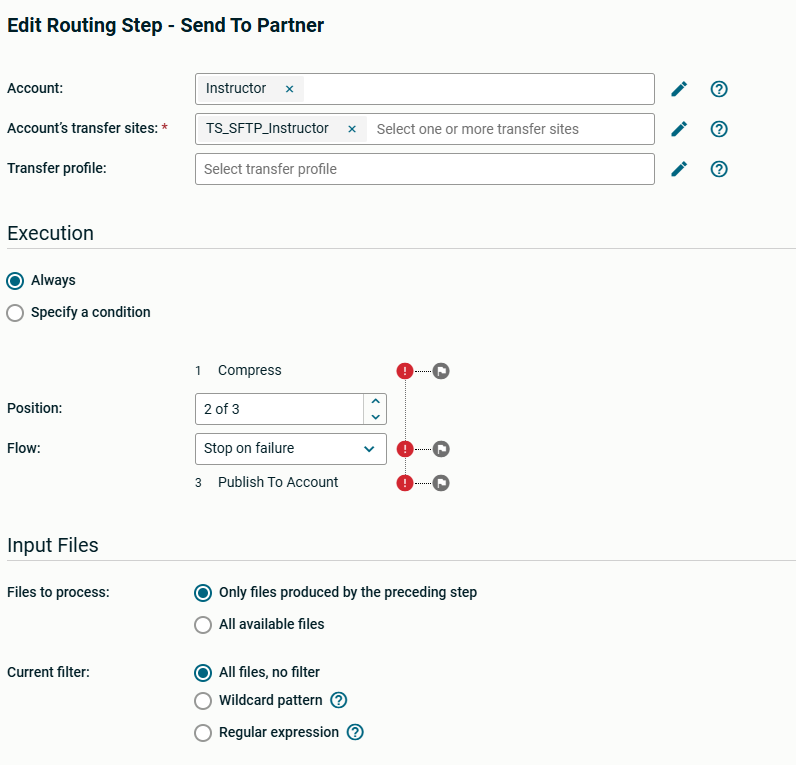
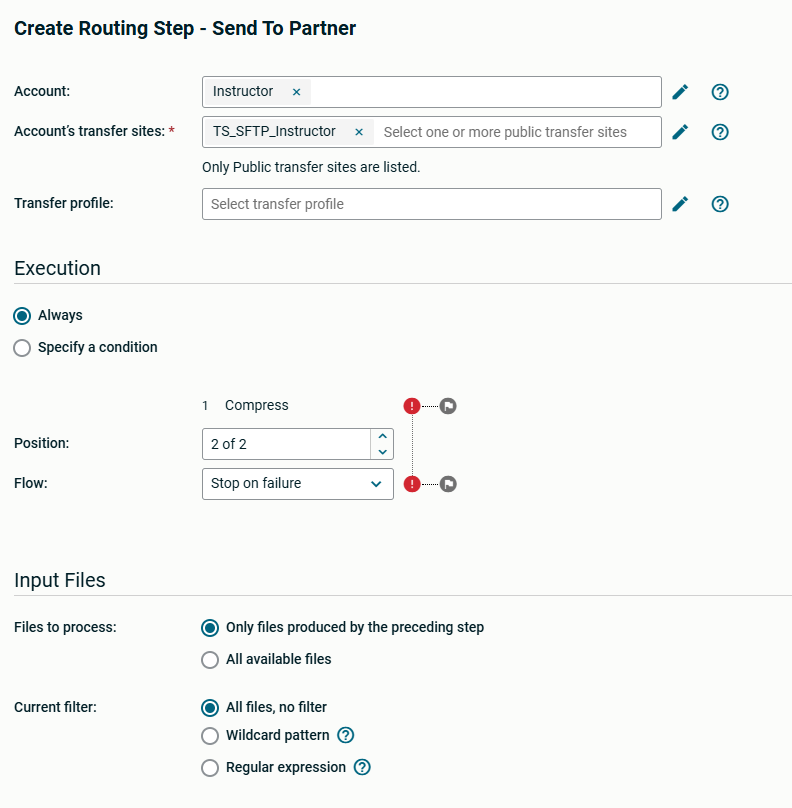
ex 9

diff --git a/docs/st-flow/STFlow-Ex-09/index.md b/docs/st-flow/STFlow-Ex-09/index.md
@@ -18,72 +18,92 @@ title: SecureTransport File Flows
 
 ### About This Exercise
 
-The Human Resources department wishes to send a single zip file to their partner each day. The HR department will initiate the final transmission by uploading a file called `trigger.me`. Any file uploaded by HR that does NOT end with `.txt` should NOT be part of the archive and should be placed into another directory for analysis.
+The Human Resources department wishes to send a single zip file to their partner each day. The HR department will initiate the final transmission by uploading a file called `trigger.me`. Any file uploaded by HR that does NOT end with `.txt` should NOT be part of the archive and should be placed into another directory for analysis by the HR team. 
+
+### High Level Solution
+
+So far all the scenarios we implemented has been processing the files one by one. In this scenario we want to handle multiple files at the same time and to delay the processing of any files until the client sends us a file indicating that we need to process all the files. ST can achieve that by setting a trigger condition on the subscription page. 
+
+To implement the solution, we will create the following objects:
+
+1. A new template route which processes the files once the trigger file is received.
+
+2. A  new account for the HR team 
+
+3. A composite route package and a subscription for the HR account
+
+The partner that needs to receive the files is the same one that received the files in previous exercises so we will reuse the Instructor's account transfer site again. 
 
 ---
 
-### Task 1: Create an HR account
+### Task 1: Create a new Route Template 
+
+
+1. Create a New Route Template called `HR Outbound Processing`
+
+2. Add a Simple Route with name `SR_Compress`
+
+3. Add a compress step filtering for files with a filename pattern of `*.txt`. Make sure that you are stopping on failure. 
+
+4. Leave *Compress all files into a single archive* checkbox checked. This will ensure that all files which match the pattern above are handled together if they reach the step at the same time. 
+
+5. Add `HR.zip` to the "Archive name" field. The files which are added into the zip file will be removed from the sandbox and will not be available for the step after this one.
+
+   ![Single archive](../images/image165.png)
+
+6. Add the *Send to Partner* Step. Make sure that the step processes only the  files coming from the previous step.
+
+   ![Send to partner](../images/image167.png)
+
+7. Ensure that you check *Delete Files after Step is complete* before pressing "Save Draft". This will remove the zip file from the sandbox folder and will allow us to handle any remaining files without a condition. You can also use a file name filter as you know the name you created but if the name uses variables (i.e. adding a date), the pattern may catch other files and send them to the partner by mistake.
+
+   ![Delete files after step](../images/image169.png)
+
+8. Add a *Publish to Account* step. This step will be used to send the files which did get added to the zip file to the folder where the HR team can process them. 
+
+9. Click the pencil next to *Account* to add an expression instead of a name. `${account.name}` gives you the name of the account currently using this route.
+
+10. Add "/UNKNOWN" in the *Folder* field.
+
+11. Select "All available files" in the "Files to Process" radiobox so the step can see the files which the previous step did not use.
+
+12. Make sure that the step stops on failure and in the *Collision Settings* choose "Use a different file name to publish the file".  This will allow for a file to be sent to the folder even if a file with the same name is already there. Your setup should look like this:
+
+   ![Publish to account](../images/image171.png)
+
+13. Save Draft.
+
+14. The result should look like this:
+
+    ![Route result](../images/image173.png)
+
+15. Save Template and Close.
+
+---
+
+### Task 2: Create an HR account
 
 1. Create an account with the name `HR` and password `axway`. Fill in the rest of the fields (UID, GID and home folder) similarly to how we did that in the previous exercises. 
 
    ![HR account](../images/image163.png)
 
-2. Create a New Route Template called `HR Outbound Processing`
-
-3. Add a Simple Route with name `SR_Compress`
-
-4. Add a compress step filtering for files with a filename pattern of `*.txt`
-
-5. Create a Single Archive called `HR.zip`
-
-   ![Single archive](../images/image165.png)
-
-6. Add the *Send to Partner* Step
-
-   ![Send to partner](../images/image167.png)
-
-7. Make sure that the step processes only the zip files (via a file name condition or via processing only files coming from the previous step)
-
-8. Ensure that you check *Delete Files after Step is complete*
-
-   ![Delete files after step](../images/image169.png)
-
-**Add a Publish to Account Step:**
-
-9. This step sends any files OTHER than the zip file to a directory called UNKNOWN underneath the home folder of the account
-
-   ![Publish to account](../images/image171.png)
-
-> **Hint:** Click the pencil next to *Account* to add an expression instead of a name. `${account.name}` gives you the name of the account currently using this route.
-
-10. The result should look like this:
-
-    ![Route result](../images/image173.png)
-
-11. Save everything you created.
-
 ---
 
-### Task 2: On the HR account create a route
+### Task 3: Create the Composite Route Package in the HR account
 
-1. Assign the route template to the HR account
+1. Open the HR account, navigate to the Routes tab and create a new Route Package using the `HR Outbound Processing` template route.
 
    ![Assign route](../images/image175.png)
 
-2. Save the Route with name `PR_to_Partner`
+2. Save the Route Package with the name `PR_to_Partner`. Your screen should look like this.
 
    ![Save route](../images/image177.png)
 
 ---
 
-### Task 3: On the HR account create an Advanced Routing Subscription
+### Task 4: Create the Subscription in the HR Account
 
-| Field | Value |
-| --- | --- |
-| Subscription Folder | `/toPartner` |
-| Route | PR_to_Partner |
-
-1. Create the subscription
+1. Create the subscription using the *AdvRouting* application with a *Subscription* folder set to `/toPartner` and select the `PR_to_Partner` route to process the files.
 
    ![Advanced routing subscription](../images/image179.png)
 
@@ -91,14 +111,15 @@ The Human Resources department wishes to send a single zip file to their partner
 
    ![Delete on success](../images/image181.png)
 
-2. Check *Delete on Success* to clean the folder after the file is successfully sent
+2. Check the *On Success → Delete* option in Post Routing Settings at the bottom of the screen.
 
    ![Trigger processing](../images/image183.png)
-3. Check *Trigger processing of files based upon condition*
+
+3. If you save the subscription at this point, it will process the files one by one. To implement the trigger-based processing, go to the *Trigger Settings* section and check *Trigger processing of files based on condition*. The section is in the middle of the page, a few options under the place where you selected the route.
 
    ![Trigger processing](../images/image185.png)
 
-The trigger condition can be written in two ways:
+Add a tigger condition and make sure that the all the files except for the trigger file are sent for processing. The trigger condition can be written in two different formats:
 
    ```text
    ${stenv.target.matches('trigger.*')?1:0}
@@ -109,18 +130,20 @@ The trigger condition can be written in two ways:
    ```text
    ${stenv['target'].matches('trigger.*')?1:0}
    ```
-
+Note that the variables in the subscription page are different from the ones in the route steps and conditions. 
 > If you click the *?* button, you will see preset values you can modify to save some typing.
 
 ---
 
-### Task 4: Load the Subscription Directory with Files
+### Task 5: Load the Subscription Directory with Files
 
 You could ask your instructor to do this, or log into the HR account via the Web Client and upload your own files followed by a trigger file. Files are provided under `STSOURCE/EX9`. Make sure there are at least a few files with a `.txt` extension.
 
-1. Validate that nothing happens until the trigger file `trigger.me` is uploaded
+1. Validate that nothing happens until the trigger file `trigger.me` is uploaded by checking the File Tracking table before you send the trigger.me file or if you check after that by observing that there are not Outbound transfers until the file appears.
 
    ![Trigger validation](../images/image187.png)
+
+If your HR.zip file is delivered but you do not see the non-txt files being put in the UNKNOWN folder, check your Publish To Account step and verify that it is processing all the files, not only the ones coming from the previous step. 
 
 ---
 
